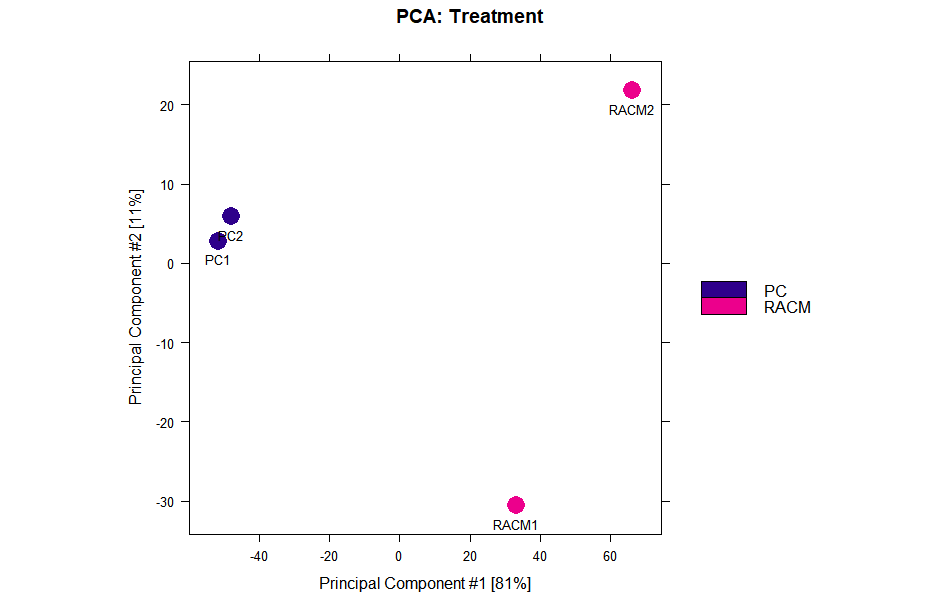
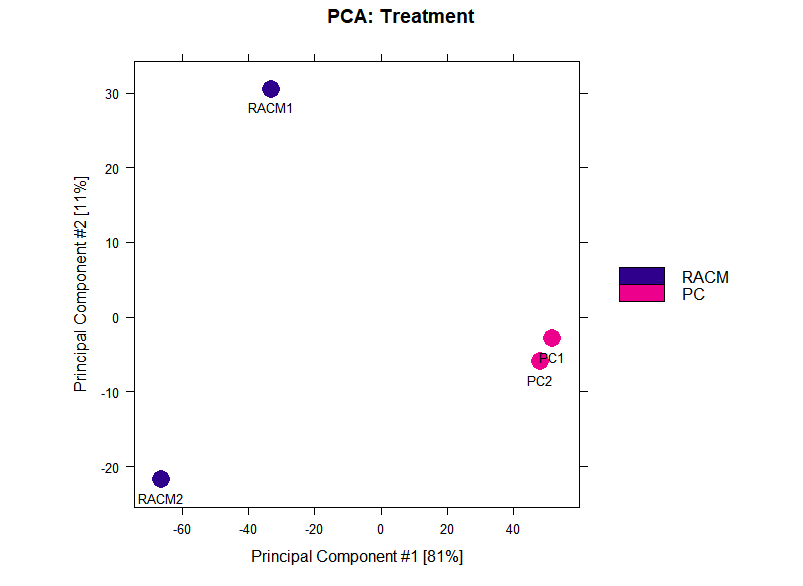
go

diff --git a/ATAC完整流程.md b/ATAC完整流程.md
@@ -2160,14 +2160,15 @@ sample sheet是一个列表，需要包括以下几列:"SamplelD"，"Tissue"，"
 ![sample](./pictures/sample.png) 
 
 
-* 输入：  
+* 输入：注意！！！一定把对照组放前面，把实验组放在后面  
+
 
 | SampleID | Tissue         | Factor              | Condition | Treatment | Replicate | bamReads                                | ControlID | bamControl | Peaks                                               | PeakCaller |
 |:--------:|:--------------:|:-------------------:|:---------:|:---------:|:---------:|:---------------------------------------:|:---------:|:----------:|:---------------------------------------------------:|:----------:|
-| PC1      | Sinus\_Node    | accessible\_regions | PC        | PC        | 1         | D:/ATAC/blklist/SRR11539111\.final\.bam |           |            | D:/ATAC/macs2_peaks/SRR11539111\_peaks\.narrowPeak | narrowPeak |
-| PC2      | Sinus\_Node    | accessible\_regions | PC        | PC        | 2         | D:/ATAC/blklist/SRR11539112\.final\.bam |           |            | D:/ATAC/macs2_peaks/SRR11539112\_peaks\.narrowPeak | narrowPeak |
 | RACM1    | cardiomyocytes | accessible\_regions | RACM      | RACM      | 1         | D:/ATAC/blklist/SRR11539115\.final\.bam |           |            | D:/ATAC/macs2_peaks/SRR11539115\_peaks\.narrowPeak | narrowPeak |
 | RACM2    | cardiomyocytes | accessible\_regions | RACM      | RACM      | 2         | D:/ATAC/blklist/SRR11539116\.final\.bam |           |            | D:/ATAC/macs2_peaks/SRR11539116\_peaks\.narrowPeak | narrowPeak |
+| PC1      | Sinus\_Node    | accessible\_regions | PC        | PC        | 1         | D:/ATAC/blklist/SRR11539111\.final\.bam |           |            | D:/ATAC/macs2_peaks/SRR11539111\_peaks\.narrowPeak | narrowPeak |
+| PC2      | Sinus\_Node    | accessible\_regions | PC        | PC        | 2         | D:/ATAC/blklist/SRR11539112\.final\.bam |           |            | D:/ATAC/macs2_peaks/SRR11539112\_peaks\.narrowPeak | narrowPeak |  
 
 
 将上面表格写入文件`/mnt/d/ATAC/R_analysize/sample_sheet.csv`，学会使用[格式转换器](https://tableconvert.com/zh-cn/csv-to-excel)，注意csv文件最后一行加一行空格，否则报错。  
@@ -2197,11 +2198,11 @@ getwd()
 > dbObj <- dba(sampleSheet = samples)  
 > dbObj
 # 4 Samples, 18428 sites in matrix (26394 total):
-#      ID         Tissue             Factor Condition Treatment Replicate    Intervals
-# 1   PC1     Sinus_Node accessible_regions        PC        PC         1       16974
-# 2   PC2     Sinus_Node accessible_regions        PC        PC         2       16136
-# 3 RACM1 cardiomyocytes accessible_regions      RACM      RACM         1       20384
-# 4 RACM2 cardiomyocytes accessible_regions      RACM      RACM         2       19063   
+#      ID         Tissue             Factor Condition    Treatment Replicate Intervals
+# 1 RACM1 cardiomyocytes accessible_regions      RACM         RACM         1     20384
+# 2 RACM2 cardiomyocytes accessible_regions      RACM         RACM         2     19063
+# 3   PC1     Sinus_Node accessible_regions        PC           PC         1     16974
+# 4   PC2     Sinus_Node accessible_regions        PC           PC         2     16136
 ``` 
 * 结果解读：    
 
@@ -2230,10 +2231,10 @@ The next step is to calculate a binding matrix with scores based on read counts 
 > db_count <- dba.count(dbObj)  #this step will take you a couple of minutes, be patient.
 # 4 Samples, 18428 sites in matrix:
 #      ID         Tissue             Factor Condition Treatment Replicate    Reads FRiP
-# 1   PC1     Sinus_Node accessible_regions        PC        PC         1 23998501 0.05
-# 2   PC2     Sinus_Node accessible_regions        PC        PC         2 23763576 0.05
-# 3 RACM1 cardiomyocytes accessible_regions      RACM      RACM         1 19056393 0.08
-# 4 RACM2 cardiomyocytes accessible_regions      RACM      RACM         2 13333003 0.10
+# 1 RACM1 cardiomyocytes accessible_regions      RACM      RACM         1 19056393 0.08
+# 2 RACM2 cardiomyocytes accessible_regions      RACM      RACM         2 13333003 0.10
+# 3   PC1     Sinus_Node accessible_regions        PC        PC         1 23998501 0.05
+# 4   PC2     Sinus_Node accessible_regions        PC        PC         2 23763576 0.05
 
 # 可能报错'package:stats' may not be available when loading，无需担心，
 # 这是 RStudio 本身中的一个错误（在保存环境时有一些内部代码运行使用 stats：：setNames（），这可能会触发此警告）。
@@ -2246,15 +2247,15 @@ The next step is to calculate a binding matrix with scores based on read counts 
 > db_count2
 # 4 Samples, 18428 sites in matrix:
 #      ID         Tissue             Factor Condition Treatment
-# 1   PC1     Sinus_Node accessible_regions        PC        PC
-# 2   PC2     Sinus_Node accessible_regions        PC        PC
-# 3 RACM1 cardiomyocytes accessible_regions      RACM      RACM
-# 4 RACM2 cardiomyocytes accessible_regions      RACM      RACM
+# 1 RACM1 cardiomyocytes accessible_regions      RACM      RACM
+# 2 RACM2 cardiomyocytes accessible_regions      RACM      RACM
+# 3   PC1     Sinus_Node accessible_regions        PC        PC
+# 4   PC2     Sinus_Node accessible_regions        PC        PC
 #   Replicate    Reads FRiP
-# 1         1 23998501 0.05
-# 2         2 23763576 0.05
-# 3         1 19056393 0.08
-# 4         2 13333003 0.10
+# 1         1 19056393 0.08
+# 2         2 13333003 0.10
+# 3         1 23998501 0.05
+# 4         2 23763576 0.05
 
 # 可能报错'display list redraw incomplete'，加载 dev.off() 即可消除  
 
@@ -2279,11 +2280,13 @@ This shows that all the samples are using the same, `18428` length consensus pea
 > rownames(libsizes) <- info$ID
 > libsizes
 #       LibReads FRiP PeakReads
-# PC1   23998501 0.05   1199925
-# PC2   23763576 0.05   1188179
 # RACM1 19056393 0.08   1524511
 # RACM2 13333003 0.10   1333300
+# PC1   23998501 0.05   1199925
+# PC2   23763576 0.05   1188179
 ```
+
+
 ## 差异结合亲和分析:   
 DiffBind的核心功能是差异结合亲和分析，它可以识别样本间显著的差异结合位点。这一步骤包括将实验数据标准化，建立模型设计和对比(或contrasts)。接下来执行底层的核心分析，默认情况下使用DESeq2。这将为每个候选结合位点分配一个p值和FDR，表明它们的差异结合置信度confidence。  
 
@@ -2335,11 +2338,11 @@ library(csaw)
 # [1] "lib"
 
 > $norm.factors
-# [1] 1.2261660 1.1886879 0.9244684 0.6606777
+# [1] 0.9244684 0.6606777 1.2261660 1.1886879
 > $lib.method
 # [1] "background"
 > $lib.sizes
-# [1] 20757536 20123077 15650154 11184491
+# [1] 15650154 11184491 20757536 20123077
 ```
 
 ④ Differential binding affinity analysis     
@@ -2362,20 +2365,20 @@ dba.contrast(DBA, design=missing(group1), contrast,
 > db_contrast <- dba.contrast(db_normed, categories=DBA_TREATMENT, minMembers = 2)
 > db_contrast
 # 4 Samples, 18428 sites in matrix:
-#      ID         Tissue             Factor Condition Treatment Replicate
-# 1   PC1     Sinus_Node accessible_regions        PC        PC         1
-# 2   PC2     Sinus_Node accessible_regions        PC        PC         2
-# 3 RACM1 cardiomyocytes accessible_regions      RACM      RACM         1
-# 4 RACM2 cardiomyocytes accessible_regions      RACM      RACM         2
-#      Reads FRiP
-# 1 23998501 0.05
-# 2 23763576 0.05
-# 3 19056393 0.08
-# 4 13333003 0.10
+#      ID         Tissue             Factor Condition Treatment
+# 1 RACM1 cardiomyocytes accessible_regions      RACM      RACM
+# 2 RACM2 cardiomyocytes accessible_regions      RACM      RACM
+# 3   PC1     Sinus_Node accessible_regions        PC        PC
+# 4   PC2     Sinus_Node accessible_regions        PC        PC
+#   Replicate    Reads FRiP
+# 1         1 19056393 0.08
+# 2         2 13333003 0.10
+# 3         1 23998501 0.05
+# 4         2 23763576 0.05
 
 # Design: [~Treatment] | 1 Contrast:
 #      Factor Group Samples Group2 Samples2
-# 1 Treatment  RACM       2     PC        2
+# 1 Treatment    PC       2   RACM        2
 ```
 * 结果解读：
 The `TREATMENT` metadata factor has two values, `RACM` and `PC`, that have at least `2 replicates` each.  本流程只针对treatment进行差异分析，如果需要进行`Multi-factor designs`，请参考[man5](https://rdrr.io/bioc/DiffBind/man/dba.html)。  
@@ -2398,7 +2401,7 @@ dba.analyze(DBA, method=DBA$config$AnalysisMethod, design,
 # summary of results
 > dba.show(db_analz, bContrasts=T) #处理两两组合
 #      Factor Group Samples Group2 Samples2 DB.edgeR DB.DESeq2
-# 1 Treatment  RACM       2     PC        2    12260      8265
+# 1 Treatment    PC       2   RACM        2    12260      8265
 
 
 # overlapping peaks identified by the two different tools (DESeq2 and edgeR)
@@ -2467,29 +2470,18 @@ write.table(deseq.bed, file="D:/atac/r_analysize/diff_DESeq2.bed", sep="\t", quo
 * 结果解读：  
 ```r
 > comp1.deseq
-GRanges object with 18017 ranges and 6 metadata columns:
-        seqnames              ranges strand |      Conc Conc_RACM   Conc_PC         Fold     p-value         FDR
-           <Rle>           <IRanges>  <Rle> | <numeric> <numeric> <numeric>    <numeric>   <numeric>   <numeric>
-   5090    chr14   54967608-54968008      * |   8.19810   8.98233   6.35035      2.38311 2.31414e-36 4.16939e-32
-  12045     chr4 148000251-148000651      * |   7.22101   8.07401   4.85321      2.63988 2.79559e-26 2.51841e-22
-  12046     chr4 148003384-148003784      * |   6.00546   6.89949   3.18581      2.59366 3.53774e-18 2.12465e-14
-  12041     chr4 147963688-147964088      * |   6.13833   7.00038   3.68333      2.41233 7.31248e-17 3.29372e-13
-  17000     chr9   58807686-58808086      * |   6.94419   5.33024   7.68688     -1.93608 1.90716e-15 6.87226e-12
-    ...      ...                 ...    ... .       ...       ...       ...          ...         ...         ...
-   8036    chr18   73470905-73471305      * |   4.10462   4.09486   4.11432 -7.00563e-04    0.998274    0.998495
-    318     chr1   73363673-73364073      * |   5.37576   5.37968   5.37182 -4.87191e-04    0.998652    0.998819
-  12242     chr5   12507515-12507915      * |   5.18559   5.18333   5.18784 -2.80057e-04    0.999242    0.999353
-   8506    chr19   37020817-37021217      * |   5.92300   5.93049   5.91547  1.66610e-04    0.999506    0.999561
-     78     chr1   34121123-34121523      * |   5.43745   5.44557   5.42928  6.94101e-05    0.999808    0.999808
-  -------
-  seqinfo: 25 sequences from an unspecified genome; no seqlengths
+#  GRanges object with 18017 ranges and 6 metadata columns:
+#         seqnames              ranges strand |      Conc   Conc_PC Conc_RACM
+#            <Rle>           <IRanges>  <Rle> | <numeric> <numeric> <numeric>
+#    5090    chr14   54967608-54968008      * |   8.19810   6.35035   8.98233
+#   -------
+#   seqinfo: 25 sequences from an unspecified genome; no seqlengths
 
 > diff_result
-      seqnames     start       end width strand     Conc Conc_RACM  Conc_PC       Fold      p.value          FDR
-5090     chr14  54967608  54968008   401      * 8.198097  8.982328 6.350350  2.3831149 2.314144e-36 4.169392e-32
-12045     chr4 148000251 148000651   401      * 7.221005  8.074010 4.853210  2.6398753 2.795588e-26 2.518406e-22
-12046     chr4 148003384 148003784   401      * 6.005460  6.899487 3.185806  2.5936647 3.537736e-18 2.124647e-14
-12041     chr4 147963688 147964088   401      * 6.138325  7.000377 3.683330  2.4123256 7.312482e-17 3.293725e-13
+#       seqnames     start       end width strand     Conc Conc_RACM  Conc_PC       Fold      p.value          FDR
+# 5090     chr14  54967608  54968008   401      * 8.198097  8.982328 6.350350  2.3831149 2.314144e-36 4.169392e-32
+# 12045     chr4 148000251 148000651   401      * 7.221005  8.074010 4.853210  2.6398753 2.795588e-26 2.518406e-22
+
 # 写入bed文件后，只包含五行：sequencename, start, end, strand, fold
 ```  
 结果文件包含所有位点的基因组坐标，以及差异富集的统计数据包括fold change、p值和FDR。其中Conc的表示read的平均浓度，即对peak 的read counts进行log2标准化。metadata列显示了所有样本的平均read浓度(默认计算使用log2标准化read计数)，和RACM组和PC组中每个样本的平均read浓度。Fold列显示了DESeq2分析计算的两组之间的log Foldchanges(LFCs)。  
@@ -2551,8 +2543,8 @@ library(clusterProfiler)
 
 # peak 在TSS位点附件的分布
 > txdb <- TxDb.Mmusculus.UCSC.mm10.knownGene
-> promoter <- getPromoters(TxDb=txdb, upstream=1000, downstream=1000)
-> tagMatrix <- getTagMatrix(peak, windows=promoter)
+  promoter <- getPromoters(TxDb=txdb, upstream=1000, downstream=1000)
+  tagMatrix <- getTagMatrix(peak, windows=promoter)
 > tagHeatmap(tagMatrix, xlim=c(-1000, 1000), color="red")
 > plotAvgProf(
   tagMatrix,
@@ -2634,7 +2626,7 @@ chr9    58807687 58808086   400     *       * -1.93607772246243   Distal Interge
 # 0.01% of input gene IDs are fail to map...转化了7261
 
 # 写入文件
-> write.csv(ensembl_id_transform(peakAnno$ENSEMBL), file="cluster_diff_DESeq2peak_ENTREZID.tsv", quote = F)
+> write.csv(ensembl_id_transform(peakAnno$ENSEMBL), file="cluster_diff_DESeq2peak_geneID.tsv", quote = F)
 
 
 # 使用ClusterProfiler包进行转化有一部分部分没有映射到，换biomaRt包试一下
@@ -2643,7 +2635,7 @@ library(biomaRt)
 mart <- useDataset( "mmusculus_gene_ensembl", useMart("ENSEMBL_MART_ENSEMBL"))
 
 biomart_ensembl_id_transform <- getBM(attributes=c("ensembl_gene_id","external_gene_name","entrezgene_id", "description"), filters = 'ensembl_gene_id', values = peakAnno$ENSEMBL, mart = mart) # 转化了7685
-write.csv(biomart_ensembl_id_transform, file="cluster_diff_DESeq2peak_geneID.tsv", quote = F)
+write.csv(biomart_ensembl_id_transform, file="biomart_diff_DESeq2peak_geneID.tsv", quote = F)
 ```
 
 
@@ -2663,24 +2655,22 @@ ego_BP <- enrichGO(
         qvalueCutoff = 0.05, 
         readable = TRUE)
 # bar visualization
-barplot(ego_BP, showCategory=20, font.size = 8, title = paste("The GO BP enrichment analysis", sep = ""))
+barplot(ego_BP, showCategory=40, font.size = 6, title = paste("The GO BP enrichment analysis", sep = ""))
 
 # Multiple samples KEGG analysis
-genes <- as.data.frame(peakAnno$geneId)
-compKEGG <- compareCluster(geneCluster = genes, 
-                         fun = "enrichKEGG",  
-                         organism = "mouse",
-                         pvalueCutoff  = 0.05, 
-                         pAdjustMethod = "BH")
-barplot(compKEGG, showCategory = 20, title = "KEGG Pathway Enrichment Analysis")
+ekegg <- enrichKEGG(gene =
+        biomart_ensembl_id_transform$entrezgene_id,
+        organism = 'mmu',
+        pvalueCutoff = 0.05,
+        pAdjustMethod = "BH")
+barplot(ekegg, showCategory = 20, title = "KEGG Pathway Enrichment Analysis")
 ```
-
-
+![很好的做GO分析的网站：GREAT](http://bejerano.stanford.edu/great/public/html/index.php)
 
 # Motifs 
-尽管 Peak 注释提供了功能解释，但它不能直接解释潜在的机制。开放的染色质可以通过影响 转录因子TF而影响转录，而 TF 通过识别并结合到 DNA 上的特定序列来促进转录。该序列称为 motif，结合位置称为 TF 结合位点（TFBS）。  
+尽管 Peak 注释提供了功能解释，但它不能直接解释潜在的机制。开放的染色质可以通过影响`转录因子TF`而影响转录，而 TF 通过识别并结合到 DNA 上的特定序列来促进转录。该序列称为 motif，结合位置称为 TF 结合位点（TFBS）。 有两种类型的基于 motif 或基于 TF 的分析方法：基于序列的 motif 频率或活动预测以及针对 TF 占用的足迹。  
 
-有两种类型的基于 motif 或基于 TF 的分析方法：基于序列的 motif 频率或活动预测以及针对 TF 占用的足迹。
+
 
 `MEME suite`，其中包括`FIMO`用于搜索单个 motif，`MAST` 用于汇总来自多个 motif 的搜索结果，`MCAST` 用于推断由多个 motif 形成的调节模块。这些工具基于统计匹配生成推定的 TFBS 列表。由于 MEME suite 和 PWMScan 具有 Web 应用程序界面，因此更易于访问。
 
